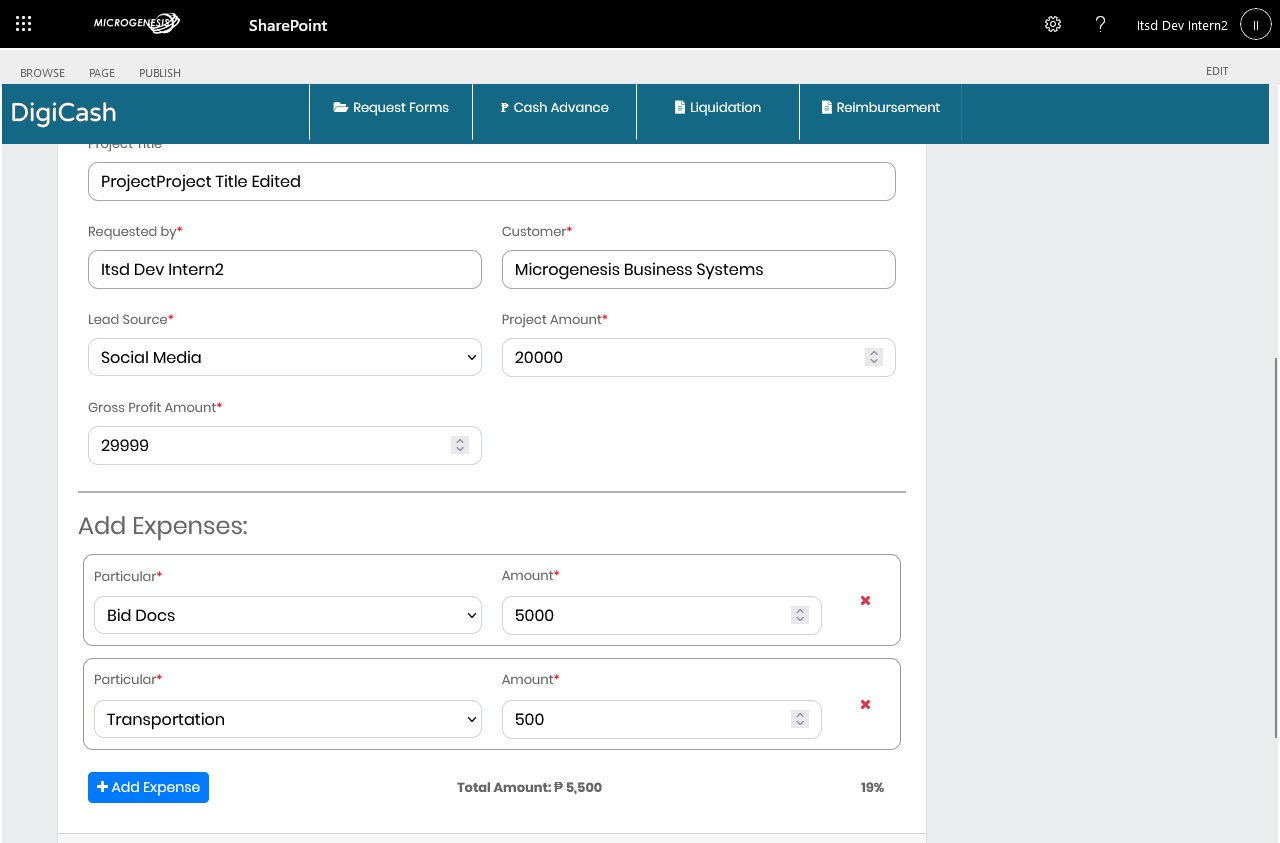
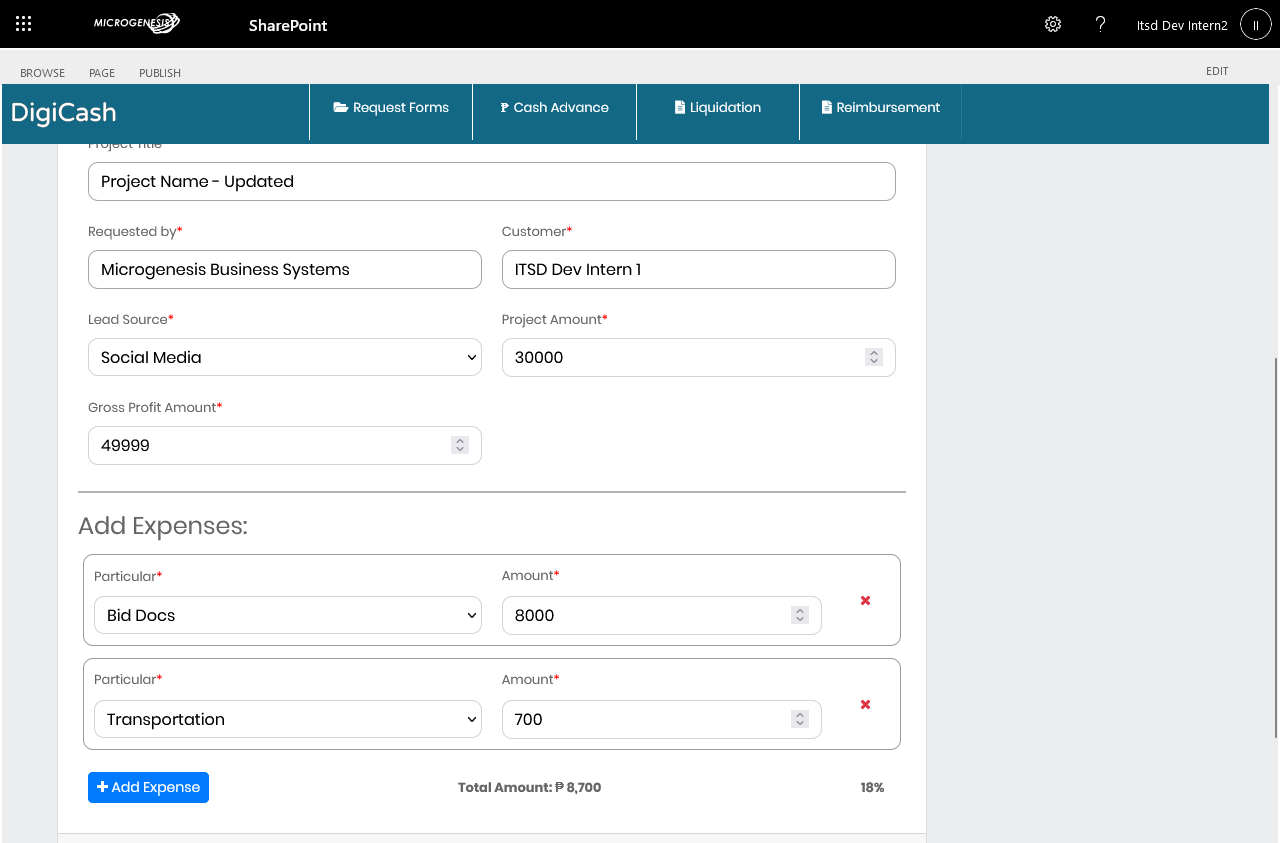
Test

diff --git a/test-scenarios/test-digicash-request-login.js b/test-scenarios/test-digicash-request-login.js
@@ -88,24 +88,28 @@ async function testDigicashRequest(driver, TEST_CASE_FILE_PATH) {
             // Define an array of objects containing element identifiers and actions
             const elements = [
                 { selectorType: "id", identifier: "prjName", action: ["clear"] },
-                { selectorType: "id", identifier: "prjName", action: ["click", "sendKeys", "Project Title - Edited"] },
-                { selectorType: "id", identifier: "needDate", action: ["click", "sendKeys", "2024-02-14"] },
-                { selectorType: "id", identifier: "prebidDate", action: ["click", "sendKeys", "2024-02-16"] },
-                { selectorType: "id", identifier: "bidDate", action: ["click", "sendKeys", "2024-02-20"] },
+                { selectorType: "id", identifier: "prjName", action: ["click", "sendKeys", "Project Name - Edited"] },
+                { selectorType: "id", identifier: "prjName", action: ["clear"] },
+                { selectorType: "id", identifier: "prjName", action: ["click", "sendKeys", "Project Name - Updated"] },
+                { selectorType: "id", identifier: "needDate", action: ["click", "sendKeys", "2024-02-16"] },
+                { selectorType: "id", identifier: "prebidDate", action: ["click", "sendKeys", "2024-02-19"] },
+                { selectorType: "id", identifier: "bidDate", action: ["click", "sendKeys", "2024-02-22"] },
+                { selectorType: "id", identifier: "rqstr", action: ["clear"] },
                 { selectorType: "id", identifier: "rqstr", action: ["click"] },
+                { selectorType: "id", identifier: "rqstr", action: ["click", "sendKeys", "Microgenesis Business Systems"] },
                 { selectorType: "id", identifier: "client", action: ["clear"] },
-                { selectorType: "id", identifier: "client", action: ["click", "sendKeys", "Microgenesis Business Systems"] },
+                { selectorType: "id", identifier: "client", action: ["click", "sendKeys", "ITSD Dev Intern 1"] },
                 { selectorType: "id", identifier: "select", action: ["click", "sendKeys", "Social Media"] },
                 { selectorType: "id", identifier: "prjAmt", action: ["clear"] },
-                { selectorType: "id", identifier: "prjAmt", action: ["click", "sendKeys", "20000"] },
+                { selectorType: "id", identifier: "prjAmt", action: ["click", "sendKeys", "30000"] },
                 { selectorType: "id", identifier: "gpa", action: ["clear"] },
-                { selectorType: "id", identifier: "gpa", action: ["click", "sendKeys", "29999"] },
+                { selectorType: "id", identifier: "gpa", action: ["click", "sendKeys", "49999"] },
                 { selectorType: "id", identifier: "bdgtAmt1", action: ["clear"] },
-                { selectorType: "id", identifier: "bdgtAmt1", action: ["click", "sendKeys", "10000"] },
+                { selectorType: "id", identifier: "bdgtAmt1", action: ["click", "sendKeys", "15000"] },
                 { selectorType: "id", identifier: "bdgtAmt2", action: ["clear"] },
-                { selectorType: "id", identifier: "bdgtAmt2", action: ["click", "sendKeys", "5000"] },
+                { selectorType: "id", identifier: "bdgtAmt2", action: ["click", "sendKeys", "8000"] },
                 { selectorType: "id", identifier: "bdgtAmt3", action: ["clear"] },
-                { selectorType: "id", identifier: "bdgtAmt3", action: ["click", "sendKeys", "500"] },
+                { selectorType: "id", identifier: "bdgtAmt3", action: ["click", "sendKeys", "700"] },
                 //{ selectorType: "id", identifier: "addRowBtn", action: ["click"] },
                 //{ selectorType: "id", identifier: "partSelect4", action: ["click", "sendKeys", "Transportation"] },
                 //{ selectorType: "id", identifier: "bdgtAmt4", action: ["clear"] },
@@ -178,29 +182,29 @@ async function testDigicashRequest(driver, TEST_CASE_FILE_PATH) {
             description,
             [
                 { action: 'click', element: 'id=prjName', value: 'Project Name Textfield' },
-                { action: 'input', element: 'id=prjName', value: 'Project Title Edited' },
+                { action: 'input', element: 'id=prjName', value: 'Project Name - Updated' },
                 { action: 'click', element: 'id=needDate', value: 'Need Date Textfield' },
-                { action: 'input', element: 'id=needDate', value: '2024-02-14' },
+                { action: 'input', element: 'id=needDate', value: '2024-02-16' },
                 { action: 'click', element: 'id=prebidDate', value: 'Pre-bid Date Textfield' },
-                { action: 'input', element: 'id=prebidDate', value: '2024-02-16' },
+                { action: 'input', element: 'id=prebidDate', value: '2024-02-19' },
                 { action: 'click', element: 'id=bidDate', value: 'Bid Date Textfield' },
-                { action: 'input', element: 'id=bidDate', value: '2024-02-20' },
+                { action: 'input', element: 'id=bidDate', value: '2024-02-22' },
                 { action: 'click', element: 'id=rqstr', value: 'Requestor Textfield' },
-                { action: 'input', element: 'id=rqstr', value: 'Itsd Dev Intern 1' },
+                { action: 'input', element: 'id=rqstr', value: 'ITSD Dev Intern 1' },
                 { action: 'click', element: 'id=client', value: 'Client Textfield' },
                 { action: 'input', element: 'id=client', value: 'Microgenesis Business Systems' },
                 { action: 'click', element: 'id=select', value: 'Project Type Dropdown' },
                 { action: 'select', element: 'id=select', value: 'Social Media' },
                 { action: 'click', element: 'id=prjAmt', value: 'Project Amount Textfield' },
-                { action: 'input', element: 'id=prjAmt', value: '20000' },
+                { action: 'input', element: 'id=prjAmt', value: '30000' },
                 { action: 'click', element: 'id=gpa', value: 'GPA Textfield' },
-                { action: 'input', element: 'id=gpa', value: '29999' },           
+                { action: 'input', element: 'id=gpa', value: '49999' },           
                 { action: 'click', element: 'id=bdgtAmt1', value: 'Budget Amount 1 Textfield' },
-                { action: 'input', element: 'id=bdgtAmt1', value: '10000' },
+                { action: 'input', element: 'id=bdgtAmt1', value: '15000' },
                 { action: 'click', element: 'id=bdgtAmt2', value: 'Budget Amount 2 Textfield' },
-                { action: 'input', element: 'id=bdgtAmt2', value: '5000' },
+                { action: 'input', element: 'id=bdgtAmt2', value: '8000' },
                 { action: 'click', element: 'id=bdgtAmt3', value: 'Budget Amount 3 Textfield' },
-                { action: 'input', element: 'id=bdgtAmt3', value: '500' },
+                { action: 'input', element: 'id=bdgtAmt3', value: '700' },
                 //{ action: 'click', element: 'id=addRowBtn', value: 'Add Row Button' },
                 //{ action: 'click', element: 'id=partSelect4', value: 'Part 4 Dropdown' },
                 //{ action: 'select', element: 'id=partSelect4', value: 'Transportation' },
